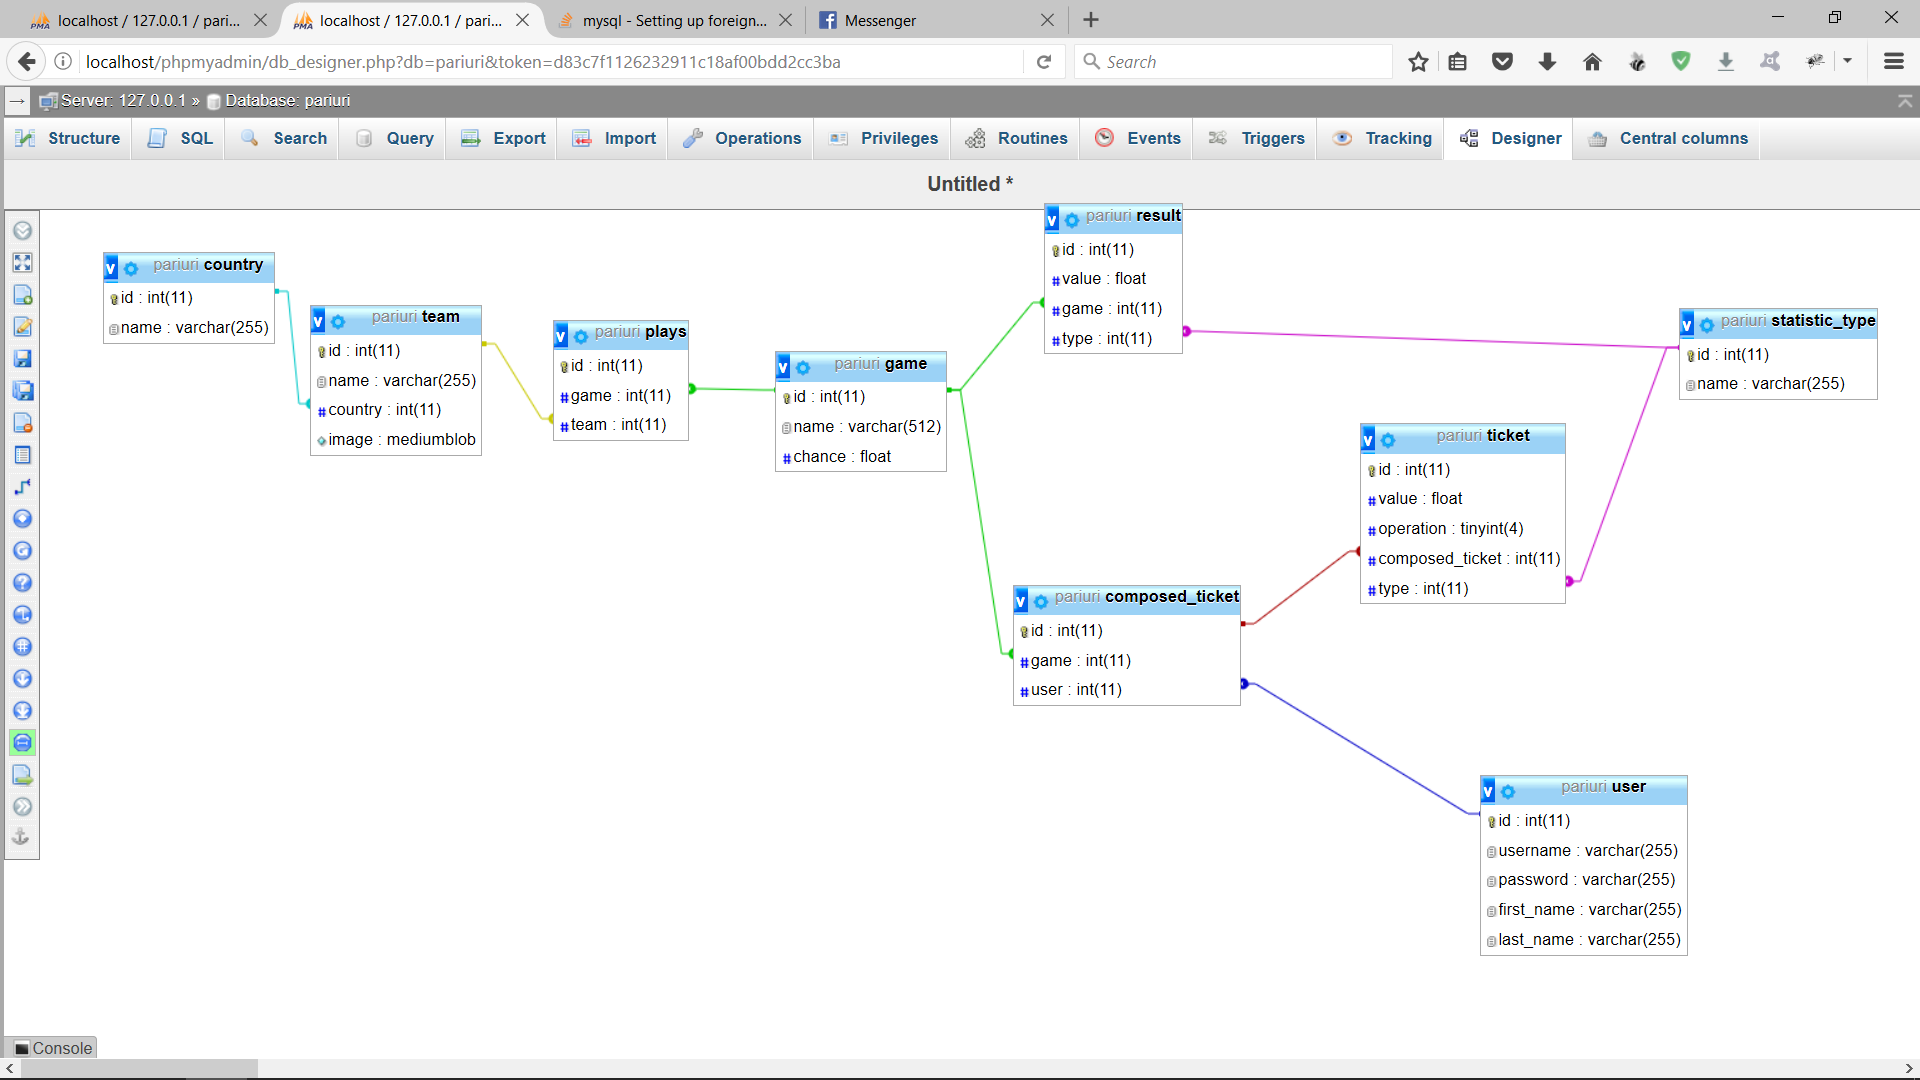
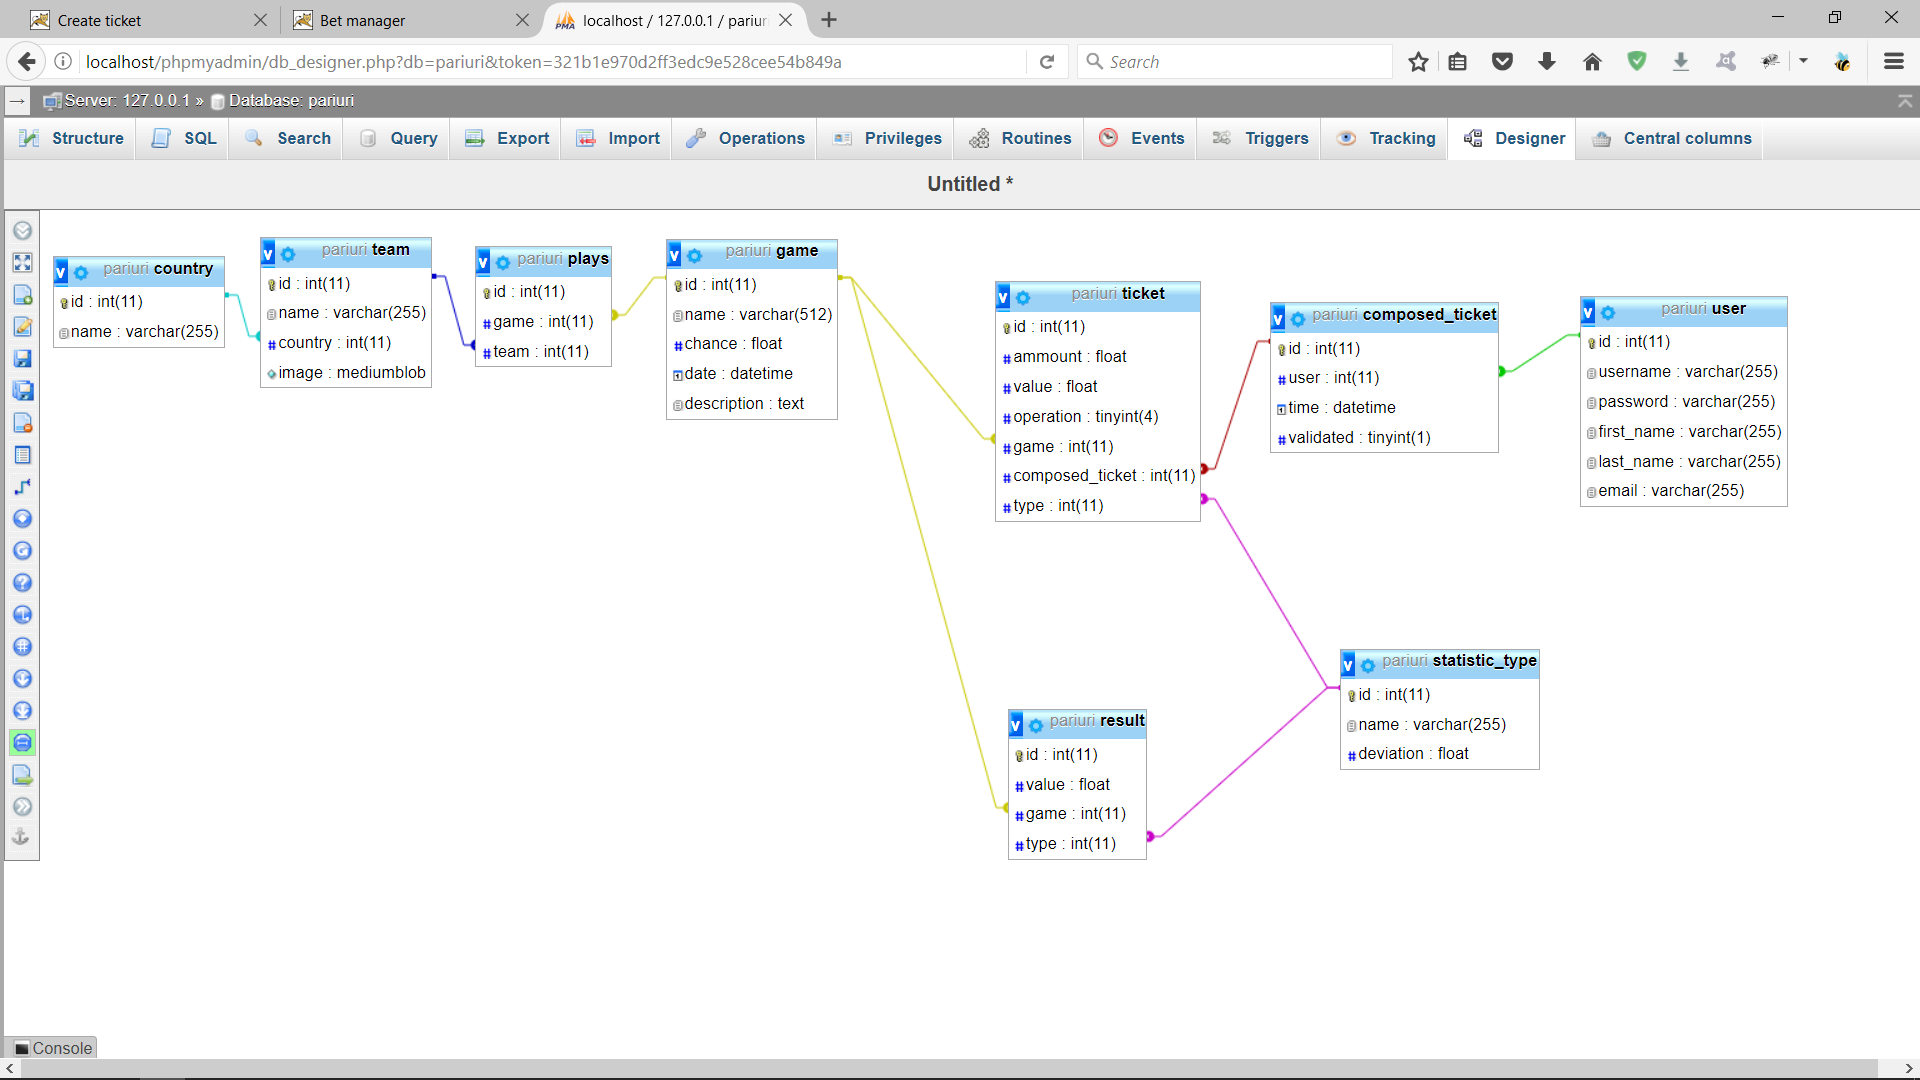
Deviatie la statistic type

diff --git a/Server/src/server/BetServer.java b/Server/src/server/BetServer.java
@@ -132,7 +132,8 @@ public class BetServer implements Connection {
             message.setRecipients(Message.RecipientType.TO, InternetAddress.parse(to));
 
             message.setSubject("CS GO Betting");
-            message.setContent("Merge?\n<h1 style=\"color: red\">MERGE BAAAA</h1>", "text/html");
+            message.setContent("Merge?\n<h1 style=\"color: red\">Bun venit la CS GO Betting!</h1>\n"
+                    + "<p>Contul dumneavoastra a fost creeat!</p>", "text/html");
 
             Transport.send(message);
             System.out.println("sent");
@@ -436,8 +437,8 @@ public class BetServer implements Connection {
         return null;
     }
 
-    private boolean ticketWon(Ticket t, Result res) {
-        float error = t.getOperation();
+    private boolean ticketWon(Ticket t, Result res, StatisticType type) {
+        float error = t.getOperation() * type.getDeviation();
         return Math.abs(res.getValue() - t.getValue()) <= error;
     }
 
@@ -464,8 +465,8 @@ public class BetServer implements Connection {
                     return null;
                 }
                 
-                float multy = 1 + t.getOperation();
-                if (this.ticketWon(t, r)) {
+                float multy = 1 - (float) t.getOperation() / 3f;
+                if (this.ticketWon(t, r, type)) {
                     res.put(t, multy * t.getAmmount());
                 } else {
                     res.put(t, 0f);

diff --git a/Library/src/model/StatisticType.java b/Library/src/model/StatisticType.java
@@ -6,6 +6,7 @@ public class StatisticType implements Serializable, Comparable<StatisticType> {
 
     protected Integer id;
     protected String name;
+    protected float deviation;
 
     public StatisticType() {
     }
@@ -14,9 +15,15 @@ public class StatisticType implements Serializable, Comparable<StatisticType> {
         this.id = id;
     }
 
-    public StatisticType(Integer id, String name) {
+    public StatisticType(String name, float deviation) {
+        this.name = name;
+        this.deviation = deviation;
+    }
+
+    public StatisticType(Integer id, String name, float deviation) {
         this.id = id;
         this.name = name;
+        this.deviation = deviation;
     }
 
     public Integer getId() {
@@ -33,6 +40,14 @@ public class StatisticType implements Serializable, Comparable<StatisticType> {
 
     public void setName(String name) {
         this.name = name;
+    }
+
+    public float getDeviation() {
+        return deviation;
+    }
+
+    public void setDeviation(float deviation) {
+        this.deviation = deviation;
     }
 
     @Override

diff --git a/Server/src/db/StatisticTypeDB.java b/Server/src/db/StatisticTypeDB.java
@@ -13,6 +13,8 @@ public class StatisticTypeDB implements Serializable, Comparable<StatisticTypeDB
     protected Integer id;
     @HiperField
     protected String name;
+    @HiperField
+    protected float deviation;
 
     public StatisticTypeDB() {
     }
@@ -21,9 +23,10 @@ public class StatisticTypeDB implements Serializable, Comparable<StatisticTypeDB
         this.name = name;
     }
 
-    public StatisticTypeDB(Integer id, String name) {
+    public StatisticTypeDB(Integer id, String name, float deviation) {
         this.id = id;
         this.name = name;
+        this.deviation = deviation;
     }
 
     public Integer getId() {
@@ -40,6 +43,14 @@ public class StatisticTypeDB implements Serializable, Comparable<StatisticTypeDB
 
     public void setName(String name) {
         this.name = name;
+    }
+
+    public float getDeviation() {
+        return deviation;
+    }
+
+    public void setDeviation(float deviation) {
+        this.deviation = deviation;
     }
 
     @Override
